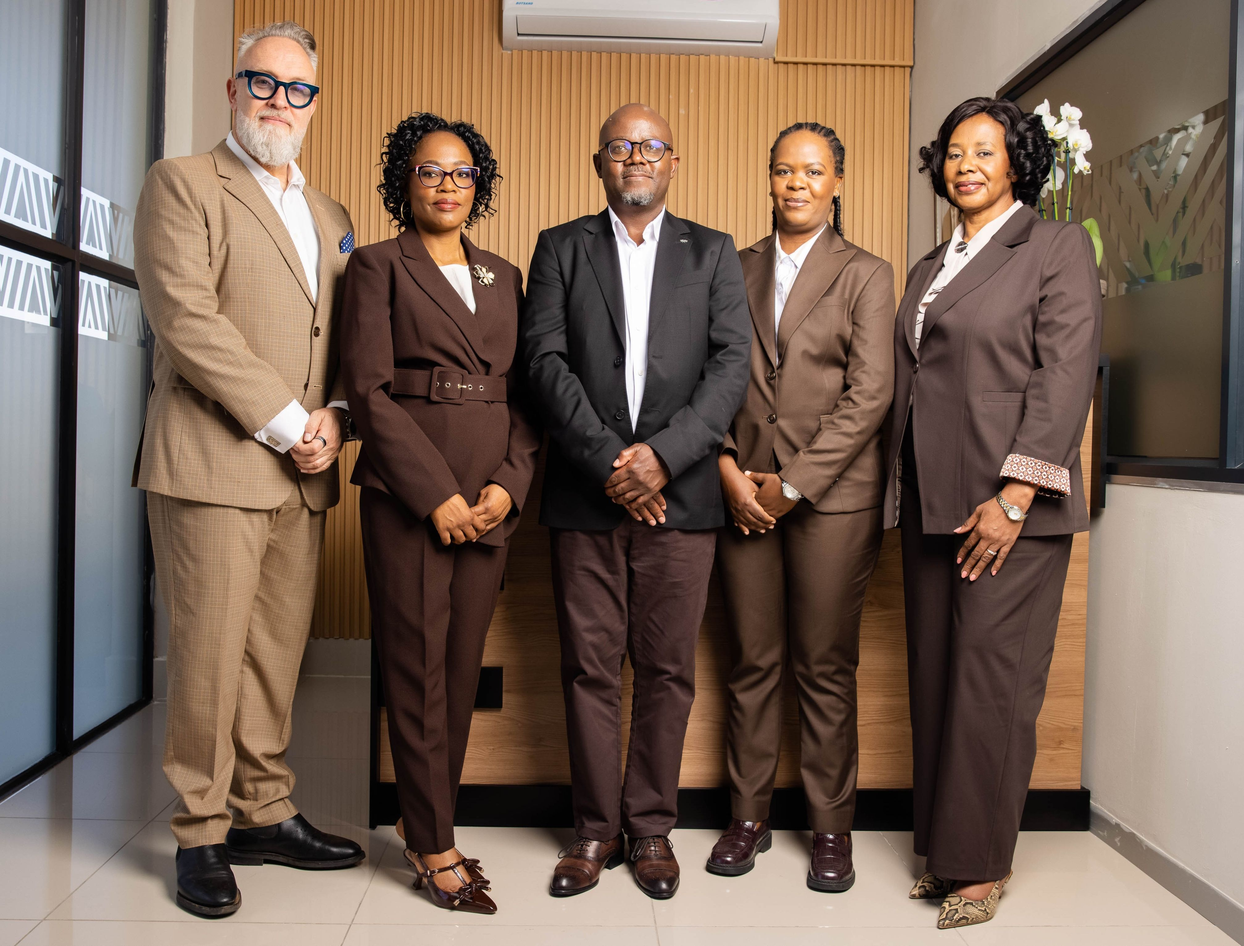
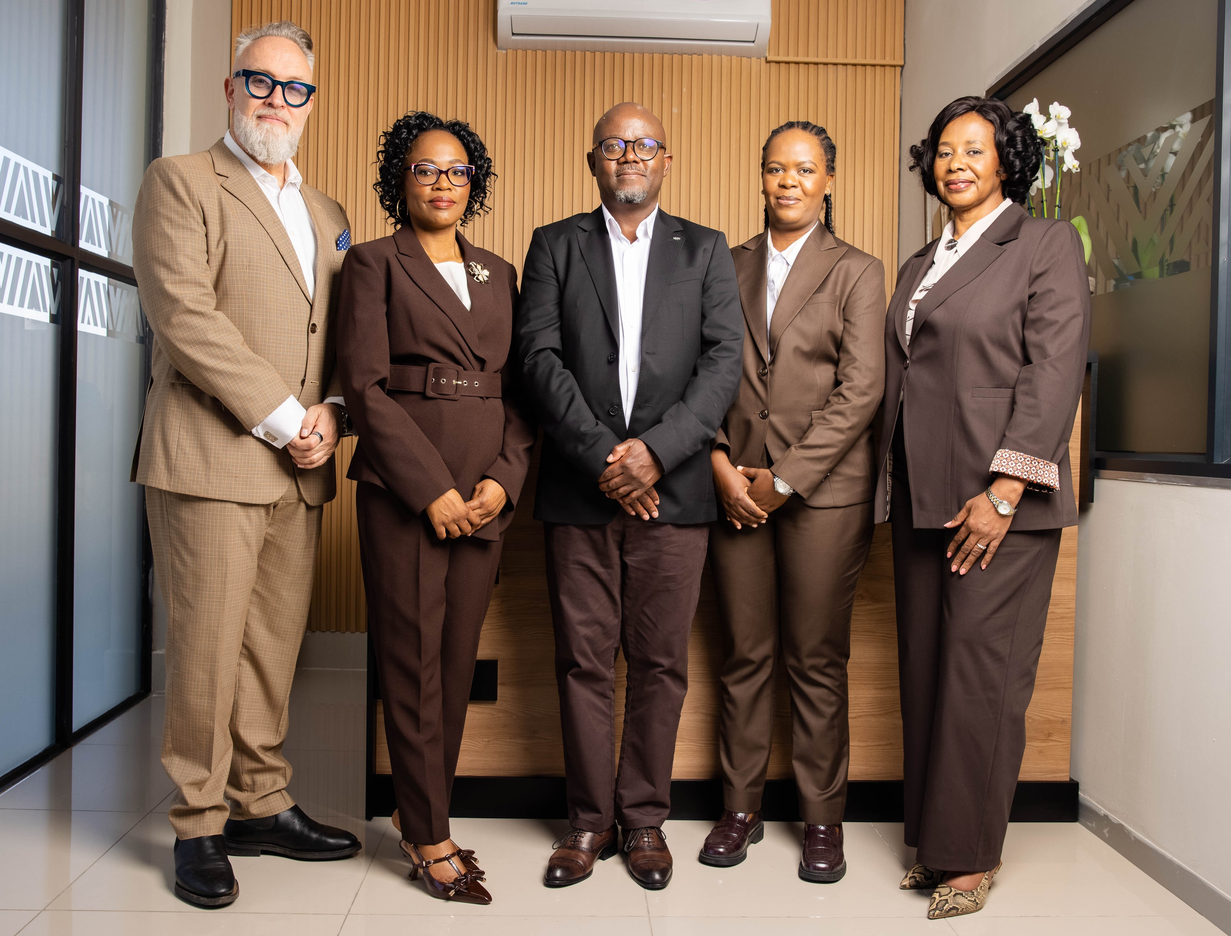
team photos

Changed region(s): [[0.1243, 0.1549, 0.2798, 0.8675], [0.2176, 0.8365, 0.2487, 0.8675]]

diff --git a/css/style.css b/css/style.css
@@ -5188,7 +5188,9 @@ transform: translateY(80px);
     opacity: 0 !important;
     visibility: hidden !important;
     z-index: 0 !important;
-    display: block !important;
+    display: flex !important;
+    align-items: center !important;
+    justify-content: center !important;
     transition: opacity 1.2s ease-in-out;
 }
 
@@ -5200,9 +5202,10 @@ transform: translateY(80px);
 
 .team-hero-slideshow .hero-slide img {
     display: block !important;
-    width: 100% !important;
-    height: 100% !important;
-    max-width: none !important;
+    width: auto !important;
+    height: auto !important;
+    max-width: 100% !important;
+    max-height: 100% !important;
     margin: 0 !important;
     padding: 0 !important;
     object-fit: contain !important;

diff --git a/team.html b/team.html
@@ -85,7 +85,7 @@
 
     <div class="hero-slide">
 
-        <img src="images/board/boardandic.jpg" alt="Mmathari Partners team">
+        <img src="images/board/boardandic3.jpg" alt="Mmathari Partners team">
 
     </div>
 
@@ -100,13 +100,6 @@
         <img src="images/committee/committee.jpg" alt="Mmathari Partners team">
 
     </div>
-
-    <div class="hero-slide">
-
-        <img src="images/committee/committee2.jpg" alt="Mmathari Partners team">
-
-    </div>
-
     <div class="hero-slide-dots">
 
         <button class="hero-dot active" aria-label="Show photo 1"></button>
